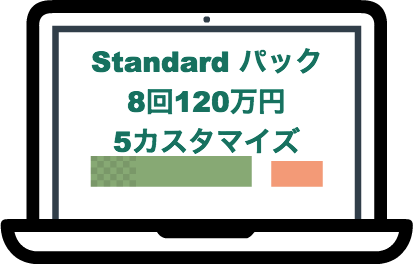
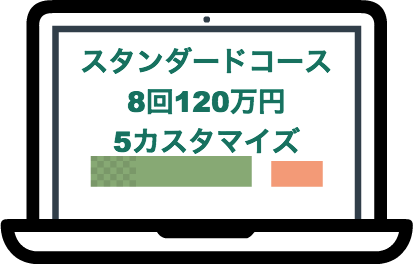
rebuilding site 2015年 12月21日 月曜日 15時25分41秒 JST

Changed region(s): [[0.2034, 0.1818, 0.8136, 0.303]]

diff --git a/solutions/kintone/services/index.html b/solutions/kintone/services/index.html
@@ -95,8 +95,8 @@
     
     <dl><dd>kintone関連サービス</dd></dl>
     <ul>
-      <li><a href="#onetime">ワンタイムプラン</a></li>
-      <li><a href="#continuation">継続プラン</a></li>
+      <li><a href="/solutions/kintone/services/">ライト/スタンダードコース</a></li>
+      <li><a href="/solutions/kintone/services/#continuation">継続プラン</a></li>
       <li><a href="/solutions/kintone/gusuku/">gusuku（グスク）<br>
           kintoneアプリ開発支援プラットフォーム</a></li>
     </ul>
@@ -112,13 +112,27 @@
 		
 		
 
-<p><a name="onetime"></a></p>
+<p>定額のメニュー制プランは ライト/スタンダードコースと <a href="#continuation">継続コース</a> の2つのコースをご用意しております。</p>
 
-<p>定額のメニュー制プランは <a href="#onetime">ワンタイムプラン</a> と <a href="#continuation">継続プラン</a> の2つのプランをご用意しております。</p>
+<div class="row">
+<div class="col-md-6"><img src="/images/solutions/kintone/lp-icon1.png"></div>
+<div class="col-md-6"><img src="/images/solutions/kintone/lp-icon2.png"></div>
+</div>
 
-<h2 id="ワンタイムプラン-基本サービス1回10万円:bfc9941b6b6fd7b4ef09dd0ccd08af0c">ワンタイムプラン　基本サービス1回10万円</h2>
+<h2 id="ライトコース-40万円-スタンダードコース-120万円:bfc9941b6b6fd7b4ef09dd0ccd08af0c">ライトコース：40万円 / スタンダードコース：120万円〜</h2>
 
-<p>１つのアプリを完成させることを目的に開発を行います。基本的に4回の打合せでの完成を前提とします（4回以上必要な場合は、追加開発となります）。</p>
+<p>kintoneとAWSを活用し対面開発によりシステムを作成します。</p>
+
+<p>ライトコースは4回の打ち合わせ、スタンダードコースは8回の打ち合わせで1つのアプリケーションを完成させます。</p>
+
+<p><strong>スタンダードコースのみ</strong></p>
+
+<ul>
+<li>kintoneで不足する機能はAWSで補完します</li>
+<li>既存システムとの連携もオプションで可能です</li>
+</ul>
+
+<p><strong>ライトコースの進め方</strong></p>
 
 <p><img class="img-thumbnail img-responsive" src="/images/solutions/kintone/kintone_onetime_201509.png" alt="ワ
 ンタイムプラン" /></p>
@@ -131,10 +145,6 @@
 <th class="text-center">ワンタイムプラン</td>
 </tr></thead>
 <tbody>
-<tr><td>JavaScriptアドオン</td>
-<td><ul><li>画面装飾：　5万円/画面
-<li>ロジック追加：　8万円/イベント
-</ul></td></tr>
 <tr><td>帳票作成</td><td>初期7万円～/個</td></tr>
 <tr><td>既存システムデータ連携<br>（連携プログラム開発）</td><td>10万円～/テーブル</td></tr>
 <tr><td>SSO環境構築</td><td>20万円</td></tr>

diff --git a/solutions/kintone/gusuku/index.html b/solutions/kintone/gusuku/index.html
@@ -95,8 +95,8 @@
     
     <dl><dd>kintone関連サービス</dd></dl>
     <ul>
-      <li><a href="#onetime">ワンタイムプラン</a></li>
-      <li><a href="#continuation">継続プラン</a></li>
+      <li><a href="/solutions/kintone/services/">ライト/スタンダードコース</a></li>
+      <li><a href="/solutions/kintone/services/#continuation">継続プラン</a></li>
       <li><a href="/solutions/kintone/gusuku/">gusuku（グスク）<br>
           kintoneアプリ開発支援プラットフォーム</a></li>
     </ul>

diff --git a/solutions/index.html b/solutions/index.html
@@ -190,8 +190,8 @@
 <img src="/images/solutions/kintone-dev-set.png" class="img-thumbnail">
 </div>
 <div class="col-sm-6">
-<h2>ライトパック：40万円</h2>
-<h2>スタンダードパック：120万円〜</h2>
+<h2>ライトコース：40万円</h2>
+<h2>スタンダードコース：120万円〜</h2>
 <ul>
 <li>kintoneとAWSを活用し対面開発によりシステムを作成します
 <li>kintoneで不足する機能はAWSで補完します（スタンダードコースのみ）
